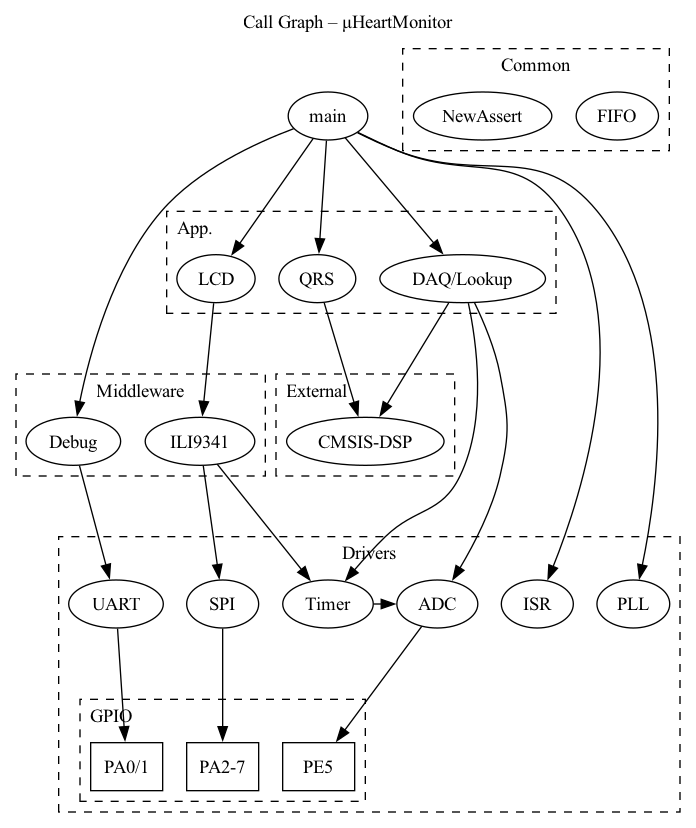
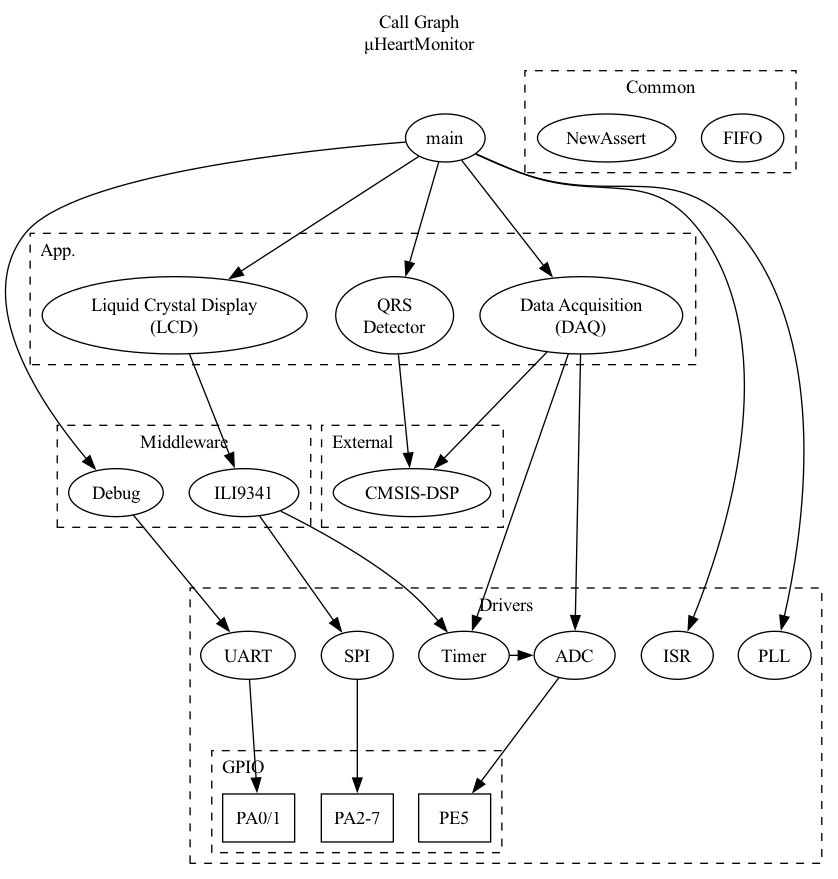
Update graphs

diff --git a/README.md b/README.md
@@ -74,7 +74,17 @@ WIP
 WIP
 
 ### Software
-![call graph](docs/call.png)
+<details>
+<summary> Click to see call graph </summary>
+<img src="docs/call.png" width="500" />
+</details>
+
+<details>
+<summary> Click to see data flow graph </summary>
+<img src="docs/data_flow.png" width="2000" />
+</details>
+
+
 WIP
 
 ## Current Results
